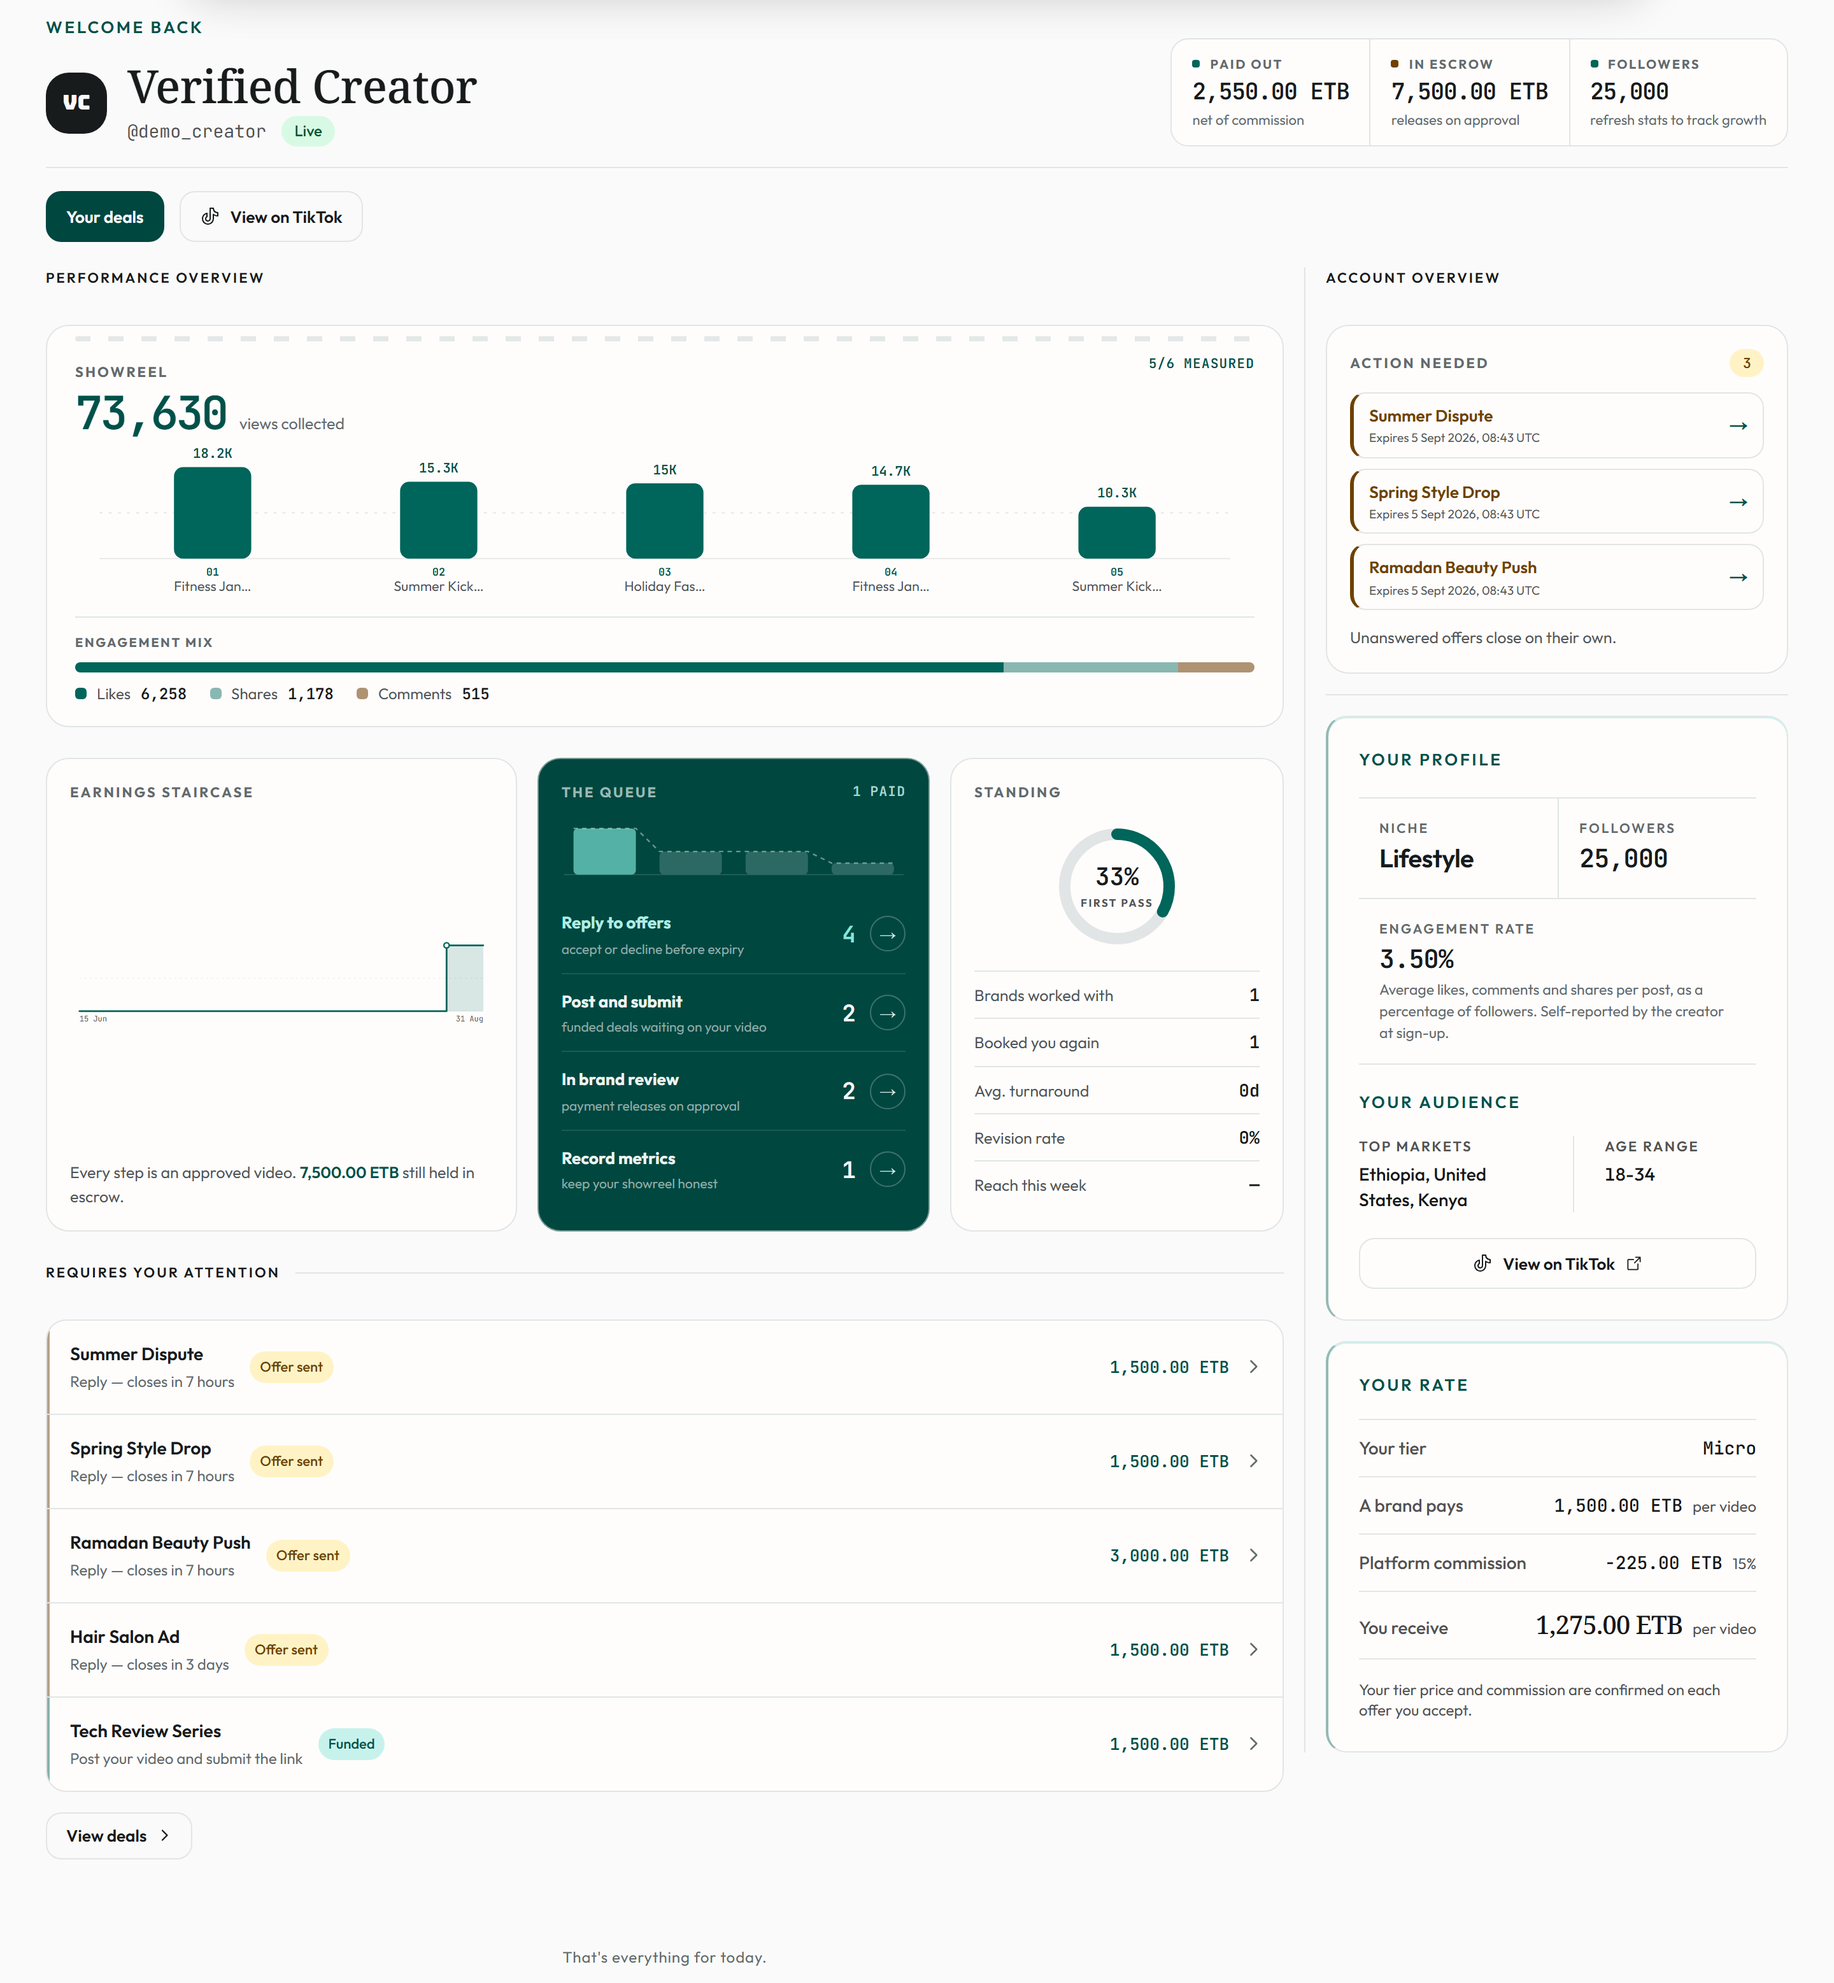
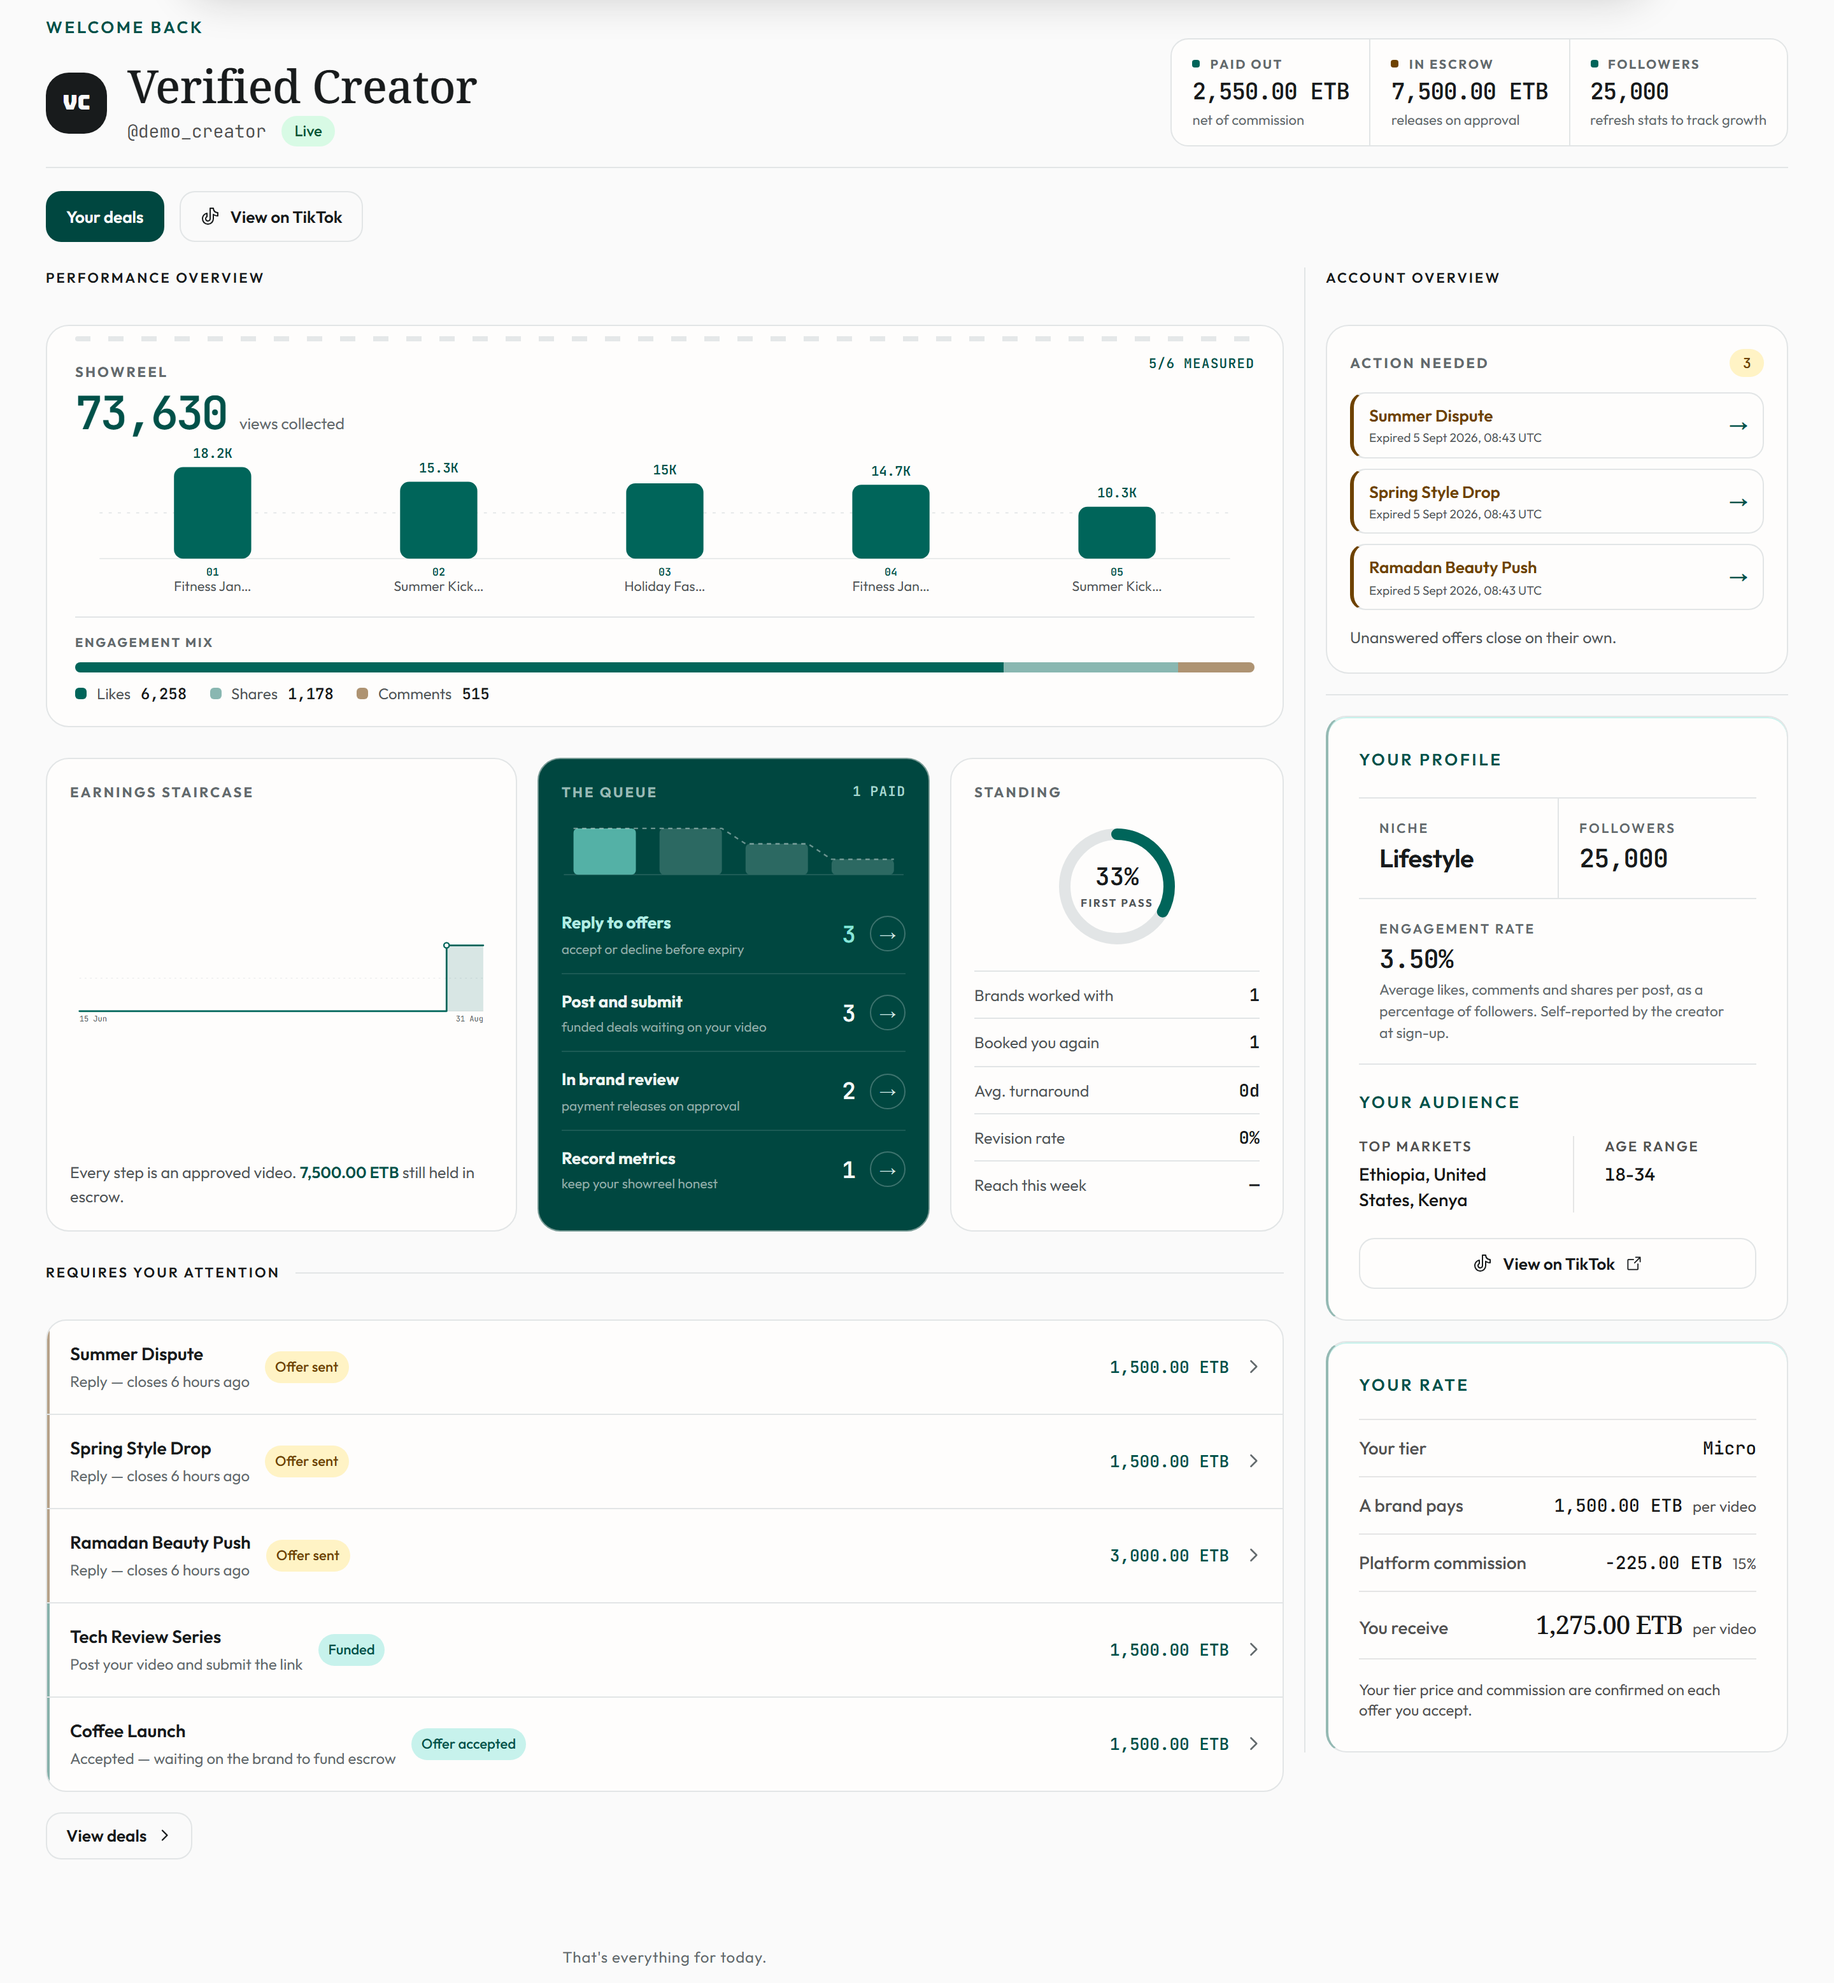
Turn the mobile chain into an orbital record and refresh the landing captures

diff --git a/app/page.tsx b/app/page.tsx
@@ -486,64 +486,80 @@ export default function HomePage() {
             {/* The record itself: everything the deal carries, chained on one
                 hairline. A pulse walks the chain, token by token. */}
             <Reveal className="mt-14">
-              {/* Mobile: a curved two-row route. When the chain wraps, the line
-                  bends down and back instead of breaking into a scroll strip. */}
-              <div className="relative overflow-hidden rounded-2xl border border-[oklch(0.79_0.004_220)] bg-white px-4 py-5 shadow-[0_2px_0_rgba(23,23,23,0.07)] sm:hidden">
-                <svg
-                  aria-hidden
-                  viewBox="0 0 340 156"
-                  preserveAspectRatio="none"
-                  className="pointer-events-none absolute inset-x-4 top-5 h-[156px] text-brand/35"
-                >
-                  <path
-                    d="M42 24 H170 H298 Q326 24 326 52 V104 Q326 132 298 132 H170"
-                    fill="none"
-                    stroke="currentColor"
-                    strokeWidth="1"
-                    strokeLinecap="round"
-                  />
-                  <path
-                    d="M42 24 H170 H298 Q326 24 326 52 V104 Q326 132 298 132 H170"
-                    fill="none"
-                    stroke="oklch(0.51 0.11 185)"
-                    strokeWidth="2"
-                    strokeLinecap="round"
-                    strokeDasharray="24 420"
-                    className="animate-[chain-route-sweep_7s_ease-in-out_infinite]"
-                  />
-                </svg>
-                <div className="relative grid grid-cols-3 gap-x-2 gap-y-16">
+              {/* Mobile: the chain becomes an orbit. Five stations circle one
+                  hub — everything the deal carries, held around one record.
+                  The teal pulse laps the ring and wakes each station in turn. */}
+              <div className="relative overflow-hidden rounded-2xl border border-[oklch(0.79_0.004_220)] bg-white px-4 py-8 shadow-[0_2px_0_rgba(23,23,23,0.07)] sm:hidden">
+                <div className="relative mx-auto aspect-square w-full max-w-[300px]">
+                  <svg
+                    aria-hidden
+                    viewBox="0 0 200 200"
+                    className="absolute inset-0 h-full w-full"
+                  >
+                    <circle
+                      cx="100"
+                      cy="100"
+                      r="80"
+                      fill="none"
+                      stroke="oklch(0.88 0.004 220)"
+                      strokeWidth="1"
+                    />
+                    <circle
+                      cx="100"
+                      cy="100"
+                      r="60"
+                      fill="none"
+                      stroke="oklch(0.91 0.004 220)"
+                      strokeWidth="1"
+                      strokeDasharray="1 7"
+                      strokeLinecap="round"
+                    />
+                    <circle
+                      cx="100"
+                      cy="100"
+                      r="80"
+                      fill="none"
+                      stroke="oklch(0.51 0.11 185)"
+                      strokeWidth="2"
+                      strokeLinecap="round"
+                      strokeDasharray="56 446.66"
+                      transform="rotate(-90 100 100)"
+                      className="chain-orbitpath"
+                    />
+                  </svg>
+                  <div className="absolute left-1/2 top-1/2 -translate-x-1/2 -translate-y-1/2 text-center">
+                    <p className="font-display text-lg font-medium leading-none text-neutral-900">
+                      One record
+                    </p>
+                    <p className="mt-2 font-mono text-[9px] uppercase tracking-[0.14em] text-neutral-400">
+                      five entries
+                      <br />
+                      one line
+                    </p>
+                  </div>
                   {[
-                    'Brief',
-                    'Creator',
-                    'Deliverable',
-                    'History',
-                    'Payment',
-                  ].map((token, i) => {
-                    const order =
-                      token === 'History' ? 5 : token === 'Payment' ? 4 : i + 1;
-                    return (
+                    ['Brief', '50%', '10%'],
+                    ['Creator', '88%', '37.6%'],
+                    ['Deliverable', '73.5%', '82.4%'],
+                    ['Payment', '26.5%', '82.4%'],
+                    ['History', '12%', '37.6%'],
+                  ].map(([token, left, top], i) => (
+                    <span
+                      key={token}
+                      className="absolute -translate-x-1/2 -translate-y-1/2"
+                      style={{ left, top }}
+                    >
                       <span
-                        key={token}
-                        className={cn(
-                          'chain-token inline-flex items-center justify-between gap-2 rounded-full border border-brand bg-brand px-3 py-2.5 font-mono text-[10px] uppercase tracking-[0.08em] text-neutral-50 shadow-[0_0_0_4px_oklch(0.51_0.11_185/0.12)]',
-                          token === 'History' && 'col-start-1 row-start-2',
-                          token === 'Payment' && 'col-start-2 row-start-2'
-                        )}
-                        style={
-                          { '--chain-i': order - 1 } as React.CSSProperties
-                        }
+                        className="chain-token inline-flex items-center gap-2 whitespace-nowrap rounded-full border border-[oklch(0.79_0.004_220)] bg-white px-3 py-2 font-mono text-[10px] uppercase tracking-[0.08em] text-neutral-600 shadow-[0_2px_0_rgba(23,23,23,0.06)]"
+                        style={{ '--chain-i': i } as React.CSSProperties}
                       >
-                        <span>{token}</span>
-                        <span
-                          aria-hidden
-                          className="text-[9px] text-neutral-50/70"
-                        >
-                          {String(order).padStart(2, '0')}
+                        {token}
+                        <span aria-hidden className="text-[9px] text-brand">
+                          {String(i + 1).padStart(2, '0')}
                         </span>
                       </span>
-                    );
-                  })}
+                    </span>
+                  ))}
                 </div>
               </div>
               {/* From sm up: a full-width rail. The tokens sit on a grid and
@@ -683,7 +699,7 @@ export default function HomePage() {
                         src="/marketing/creator-deal.webp"
                         alt=""
                         width={2912}
-                        height={2312}
+                        height={2910}
                         unoptimized
                         className="h-auto w-full bg-white"
                       />

diff --git a/app/globals.css b/app/globals.css
@@ -485,6 +485,33 @@ body {
     animation: chain-sweep 7s ease-in-out infinite;
     animation-delay: calc(var(--chain-i, 0) * 0.9s + 0.45s);
   }
+
+  /* Mobile orbit: the teal arc laps the ring once per cycle, timed so it
+     passes each station as chain-wake lights it. -502.66 is the r=80
+     circumference, so one full offset is exactly one revolution. */
+  @keyframes chain-orbit {
+    0% {
+      stroke-dashoffset: 0;
+      opacity: 0;
+    }
+    4% {
+      opacity: 1;
+    }
+    58% {
+      opacity: 1;
+    }
+    64%,
+    100% {
+      stroke-dashoffset: -502.66;
+      opacity: 0;
+    }
+  }
+
+  .chain-orbitpath {
+    opacity: 0;
+    animation: chain-orbit 7s linear infinite;
+    animation-delay: 0.45s;
+  }
 }
 
 /* Editorial hard shadow: a solid teal plate offset behind the hero frame,
@@ -1839,7 +1866,10 @@ body {
 .bd .bd-cdavatar {
   border-radius: 20px;
   border: 1px solid var(--bd-line);
-  background: var(--bd-white);
+  /* Ink plate, not paper: initials avatars paint light text, and a white
+     surface under them turned "DB" white-on-white on the deal masthead. An
+     image still covers the plate entirely, so photo avatars are unchanged. */
+  background: oklch(0.22 0.005 220);
   font-size: 18px;
   flex: none;
 }
